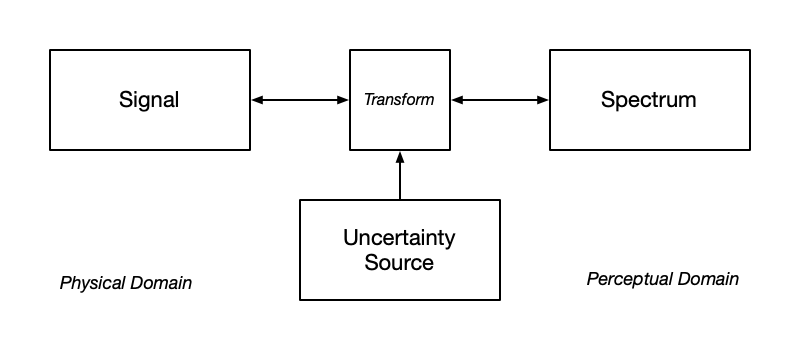
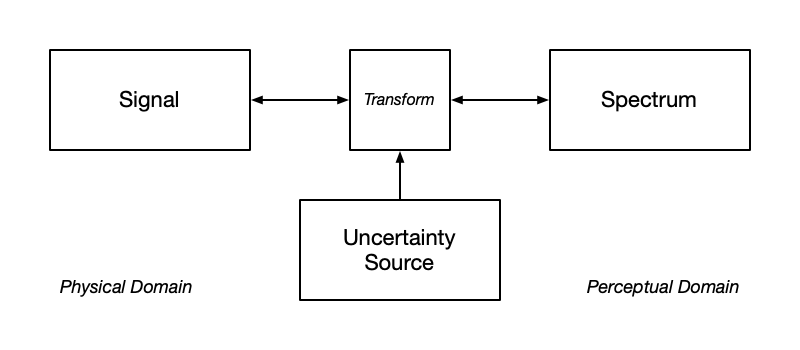
fixed textlayout on schematic

Changed region(s): [[0.7188, 0.7714, 0.9375, 0.8571], [0.0625, 0.7714, 0.25, 0.8571]]

diff --git a/README.md b/README.md
@@ -6,7 +6,7 @@ wavyr
 `wavyr` is an R package designed for studying traveling waves in space
 and time.
 
-### Signal Processing of Traveling Waves
+### Signal-Spectrum Transform Uncertainty
 
 <figure>
 <img src="man/figures/signals_spectra_schematic.png"
